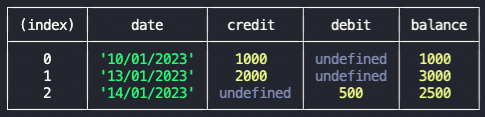
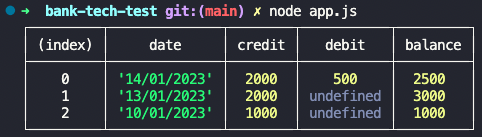
update screenshot

Changed region(s): [[0.0, 0.0256, 0.9959, 0.9744]]

diff --git a/README.md b/README.md
@@ -33,6 +33,7 @@ nvm use node
 npm init -y
 npm add jest
 npm install -g jest
+node app.js
 
 jest
 ```
